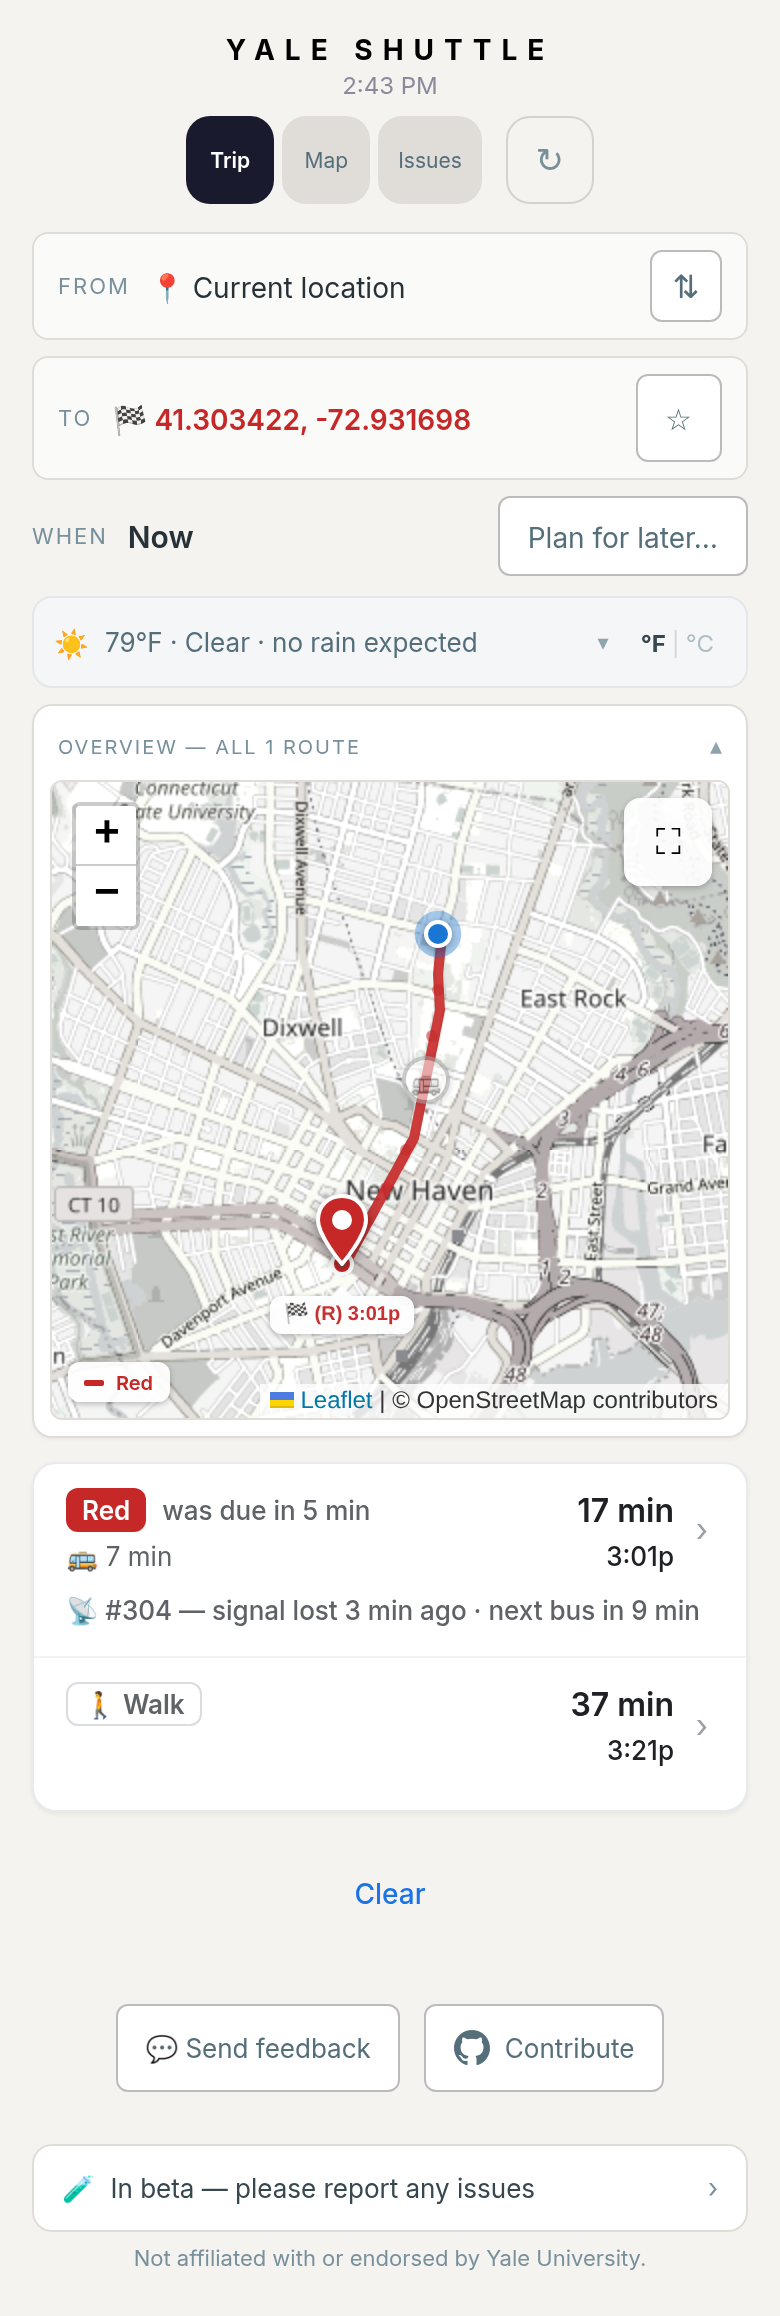
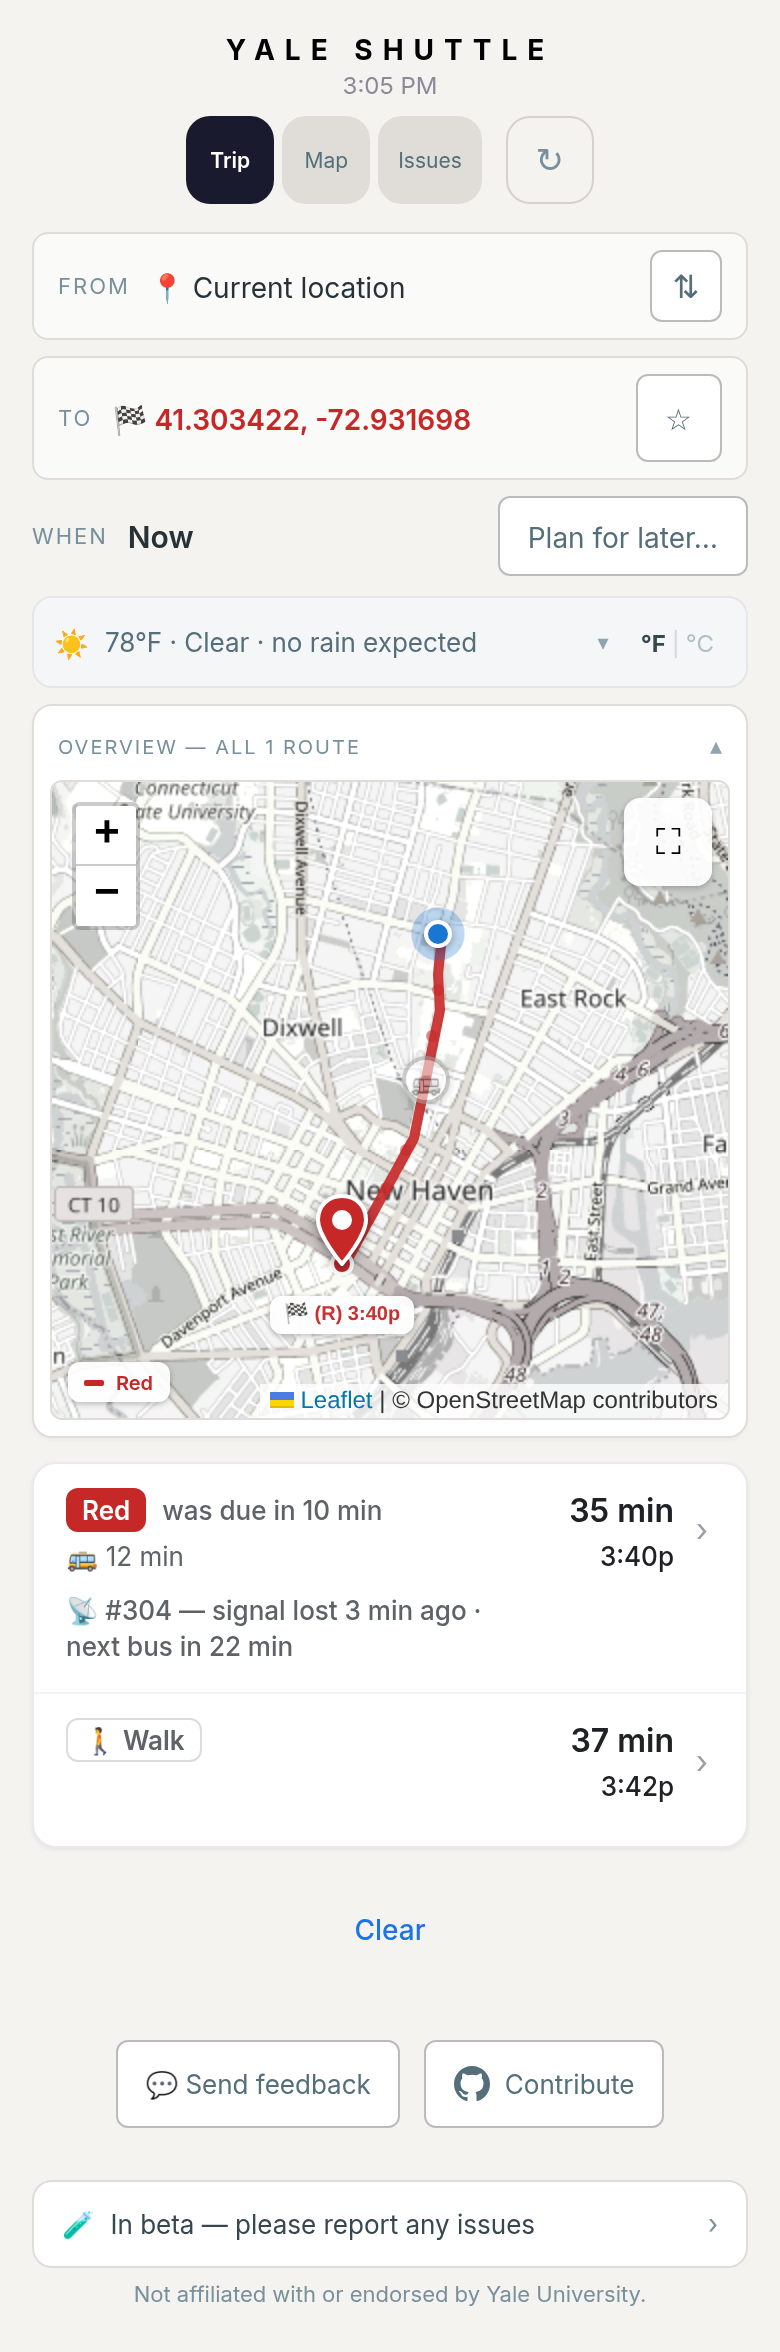
A ghost reaches the three places that expect one, and nowhere else
Auditing every consumer of `buses` after adding ghosts to the payload turned up
a defect worse than the one this branch fixes, and it is report #96 rebuilt out
of new parts.

`rideEndDecision` retires a live ride when the rider is more than 300 m from
their own bus on three consecutive checks. It was reading the bus straight out
of `buses`, which now carries ghosts — so once the rider's bus went quiet, the
distance was measured to a FROZEN coordinate. A rider still perfectly happily
aboard rides away from that point, clears 300 m three times, and the app
retires their ride under them: "I was riding a bus … and then lost my live
ride". The same list also kept `busLastSeenMs` fresh for the whole ghost
window, so `BUS_ABSENT_MS` never started counting and a ride outlived the
service that ended beneath it.

The fix is one list, not thirty guards. `TransitMap` derives `reportingBuses`
and hands the ghost-carrying list to exactly three consumers, each of which
knows what it is holding: `TripPlanner`, whose pinned row is the entire point,
and the two Leaflet maps, which grey the marker. Everything else reads
`reportingBuses` — "is this route running", the shuttle count, the schematic
markers, the route cards, the on-bus views, and the ride-end decision.

Inside `TripPlanner`, four more sites take the same guard for the same reason,
each on its own line rather than by sweeping rename:

  - the "I'm on this bus" offer, which proposes a bus to BOARD — a ghost's
[…]

diff --git a/services/shuttle-v2/web/src/TransitMap.tsx b/services/shuttle-v2/web/src/TransitMap.tsx
@@ -2269,8 +2269,12 @@ const TripPlanner: FC<{
       if (!board || haversineMeters(userLatLon, board) > 60) continue;
       const cfg = ROUTE_LISTS.find(c => c.label === o.routeLabel);
       if (!cfg) continue;
+      // `offline_since == null`: this offers the rider a bus to BOARD. A
+      // ghost's `at_stop_id` is its last fix's, and it may have pulled away
+      // minutes ago (web/src/ghost.ts).
       const busAtStop = buses.find(b =>
         cfg.busRouteIds.includes(b.route_id) && b.at_stop_id === o.boardStopId
+        && b.offline_since == null
       );
       if (!busAtStop) continue;
       const key = `${o.routeLabel}-${o.boardStopId}-${norm(busAtStop.bus_name)}`;
@@ -2291,8 +2295,12 @@ const TripPlanner: FC<{
       if (o.mode !== "shuttle") continue;
       const cfg = ROUTE_LISTS.find(c => c.label === o.routeLabel);
       if (!cfg) continue;
+      // A ghost is where a bus WAS. A rider standing near that coordinate is
+      // not evidence they are aboard anything, and pinning a live ride to a
+      // bus that stopped reporting is the worst version of this offer.
       const busNear = buses.find(b =>
         cfg.busRouteIds.includes(b.route_id) &&
+        b.offline_since == null &&
         b.lat && b.lon &&
         haversineMeters(userLatLon, { lat: b.lat, lon: b.lon }) < 100
       );
@@ -3641,8 +3649,11 @@ const TripPlanner: FC<{
               // How many buses are really on this line — the same on-route
               // test the pin uses, so a depot ghost cannot make "2 buses out"
               // of one. The last-bus warning below reads this.
+              // LIVE count, so a ghost cannot make a line look staffed: this
+              // feeds `lastBusVerdict`, i.e. "is this the last one tonight".
               const liveCount = buses.filter((b) =>
-                cfg.busRouteIds.includes(b.route_id) && isBusOnRoute(b, allStops, stopCoords),
+                cfg.busRouteIds.includes(b.route_id) && b.offline_since == null
+                && isBusOnRoute(b, allStops, stopCoords),
               ).length;
               return { busMatch, stopsAway, normBus, cfg, liveCount };
             })();
@@ -3990,7 +4001,12 @@ const TripPlanner: FC<{
                       {signalLostSec !== null && !o.departed && (
                         <div style={{ fontSize: 13, color: "#5f6368", fontWeight: 500, lineHeight: 1.4, marginBottom: 2 }}>
                           📡 #{normBus(o.busName)} — {fmtSignalLost(signalLostSec)}
-                          {nextArrLive ? ` · next bus in ${fmtMin(nextArrLive.eta)}` : ""}
+                          {/* The sentence may wrap — it is prose, not one of the
+                              right-hand clock figures — but a number must never
+                              be split from its unit across the break. */}
+                          {nextArrLive ? (
+                            <> · <span style={{ whiteSpace: "nowrap" }}>next bus in {fmtMin(nextArrLive.eta)}</span></>
+                          ) : null}
                         </div>
                       )}
                       {o.missedBus && !o.departed && (
@@ -4616,16 +4632,19 @@ const TripPlanner: FC<{
           chips are training wheels — once the rider has their own saved
           or recent destinations, those take the space instead. */}
       {!options && (() => {
-        const activeRoutes = ROUTE_LISTS.filter((c) => buses.some((b) => c.busRouteIds.includes(b.route_id)));
+        // "running now" means REPORTING now — a bus that has gone quiet is
+        // exactly the one a rider must not be told is running.
+        const running = buses.filter((b) => b.offline_since == null);
+        const activeRoutes = ROUTE_LISTS.filter((c) => running.some((b) => c.busRouteIds.includes(b.route_id)));
         const firstTimer = savedTrips.length === 0 && recentTrips.length === 0;
         return (
           <div style={{ marginTop: 14 }}>
-            <div style={{ fontSize: 13, color: buses.length > 0 ? "#2E7D32" : "#78909c", padding: "0 2px", fontWeight: 600 }}>
-              {buses.length > 0
-                ? `🚌 ${buses.length} shuttle${buses.length === 1 ? "" : "s"} running now on ${activeRoutes.length} route${activeRoutes.length === 1 ? "" : "s"}`
+            <div style={{ fontSize: 13, color: running.length > 0 ? "#2E7D32" : "#78909c", padding: "0 2px", fontWeight: 600 }}>
+              {running.length > 0
+                ? `🚌 ${running.length} shuttle${running.length === 1 ? "" : "s"} running now on ${activeRoutes.length} route${activeRoutes.length === 1 ? "" : "s"}`
                 : "😴 No shuttles running right now"}
             </div>
-            {firstTimer && buses.length > 0 && (
+            {firstTimer && running.length > 0 && (
               <div style={{ fontSize: 12, color: "#78909c", padding: "2px 2px 0" }}>
                 Pick a destination — we compare walking against every shuttle.
               </div>
@@ -6187,6 +6206,28 @@ const OnBusBanner: FC<{
 
 const TransitMap: FC = () => {
   const [buses, setBuses] = useState<BusData[]>([]);
+  /**
+   * THE BUSES THAT ARE ACTUALLY REPORTING — the default for everything below.
+   *
+   * `buses` now also carries GHOSTS: vehicles that stopped reporting, held for
+   * up to ten minutes with `offline_since` set and their last fix otherwise
+   * verbatim (web/src/ghost.ts). That is what makes one dangerous to a
+   * consumer that does not expect it — a ghost is indistinguishable from a
+   * live bus standing perfectly still at a coordinate it left minutes ago.
+   *
+   * So the ghost-carrying list goes to exactly three places, each of which
+   * knows what it is holding: `TripPlanner`, whose pinned row is the whole
+   * point, and the two Leaflet maps, which grey the marker. Everything else —
+   * "is this route running", the shuttle count, the schematic markers, the
+   * route cards, the on-bus views and `rideEndDecision` — reads this list.
+   *
+   * `rideEndDecision` is the one that would have broken loudest. It retires a
+   * ride when the rider is over 300 m from their own bus three checks running;
+   * measured against a FROZEN position, a rider still happily aboard drifts
+   * past 300 m and the ride ends under them. That is report #96's failure mode
+   * and this list is what keeps it fixed.
+   */
+  const reportingBuses = useMemo(() => buses.filter((b) => b.offline_since == null), [buses]);
   const [routeStops, setRouteStops] = useState<Record<string, number[]>>({});
   const [stopNames, setStopNames] = useState<Record<number, string>>({});
   const [segmentTimes, setSegmentTimes] = useState<Record<string, Record<string, { avg: number; sd?: number; n: number }>>>({});
@@ -6274,7 +6315,7 @@ const TransitMap: FC = () => {
   // running the filter is moot, so fall back to showing everything
   // (activeFilter) instead of an empty page.
   const [activeOnly, setActiveOnly] = useState(true);
-  const activeFilter = activeOnly && buses.length > 0;
+  const activeFilter = activeOnly && reportingBuses.length > 0;
   const [showGroupSettings, setShowGroupSettings] = useState(false);
   // Footer feedback form: collapsed by default. Posts to the same
   // /api/report endpoint as the per-route report button, tagged
@@ -6653,7 +6694,7 @@ const TransitMap: FC = () => {
     const cfg = ROUTE_LISTS.find((c) => c.label === boardedRide.routeLabel);
     const norm = (s: string) => s.replace(/^#/, "");
     const bus = cfg
-      ? buses.find((b) => norm(b.bus_name) === norm(boardedRide.busName) && cfg.busRouteIds.includes(b.route_id))
+      ? reportingBuses.find((b) => norm(b.bus_name) === norm(boardedRide.busName) && cfg.busRouteIds.includes(b.route_id))
       : undefined;
     const positioned = bus && bus.lat && bus.lon ? { lat: bus.lat, lon: bus.lon } : null;
     const decision = rideEndDecision({
@@ -6680,7 +6721,7 @@ const TransitMap: FC = () => {
       } catch { /* blocked */ }
     }
     // eslint-disable-next-line react-hooks/exhaustive-deps
-  }, [buses, userLatLon?.lat, userLatLon?.lon, boardedRide]);
+  }, [reportingBuses, userLatLon?.lat, userLatLon?.lon, boardedRide]);
   const [stopGroups, setStopGroups] = useState<StopGroup[]>(() => {
     try {
       const saved = localStorage.getItem("shuttle-stop-groups");
@@ -6793,7 +6834,7 @@ const TransitMap: FC = () => {
     }
     const next = new Set<string>();
     for (const cfg of ROUTE_LISTS) {
-      const hasBuses = buses.some((b) => cfg.busRouteIds.includes(b.route_id));
+      const hasBuses = reportingBuses.some((b) => cfg.busRouteIds.includes(b.route_id));
       const rid0 = cfg.routeIds[0];
           const isFav = rid0 !== undefined && favorites.has(rid0);
       if (hasBuses && isFav) continue; // keep visible
@@ -6801,7 +6842,7 @@ const TransitMap: FC = () => {
       if (toggle) next.add(toggle);
     }
     setHiddenRoutes(next);
-  }, [listView, buses, favorites]);
+  }, [listView, reportingBuses, favorites]);
 
   const toggleRoute = (label: string) => {
     setHiddenRoutes((prev) => {
@@ -6962,7 +7003,7 @@ const TransitMap: FC = () => {
       {boardedRide && (
         <OnBusBanner
           ride={boardedRide}
-          buses={buses}
+          buses={reportingBuses}
           stopNames={stopNames}
           stopCoords={stopCoords}
           routeStops={routeStops}
@@ -7101,7 +7142,7 @@ const TransitMap: FC = () => {
           />
           <RideStopList
             ride={boardedRide}
-            buses={buses}
+            buses={reportingBuses}
             stopNames={stopNames}
             stopCoords={stopCoords}
             routeStops={routeStops}
@@ -7208,8 +7249,8 @@ const TransitMap: FC = () => {
               {activeOnly ? "Running now" : "Every route"}
             </button>
             {ROUTE_LISTS.map((cfg) => {
-              const hasBuses = buses.some((b) => cfg.busRouteIds.includes(b.route_id));
-              if (activeOnly && buses.length > 0 && !hasBuses) return null;
+              const hasBuses = reportingBuses.some((b) => cfg.busRouteIds.includes(b.route_id));
+              if (activeOnly && reportingBuses.length > 0 && !hasBuses) return null;
               const toggle = cfg.busRouteIds.map((bid) => ROUTE_ID_TO_TOGGLE[bid]).find(Boolean);
               if (toggle && mapHidden.has(toggle)) return null;
               return (
@@ -7232,11 +7273,11 @@ const TransitMap: FC = () => {
           </div>
           <div style={{ width: "100%", padding: "0 16px", display: "flex", justifyContent: "center" }}>
             <StopList
-              buses={buses} stopNames={stopNames} stopCoords={stopCoords} routeStops={routeStops}
+              buses={reportingBuses} stopNames={stopNames} stopCoords={stopCoords} routeStops={routeStops}
               routePaths={routePaths}
               segmentTimes={segmentTimes} dwellTimes={dwellTimes} routePeaks={routePeaks}
               routeHours={routeHours} tick={tick}
-              listView="all" activeOnly={activeOnly && buses.length > 0}
+              listView="all" activeOnly={activeOnly && reportingBuses.length > 0}
               // One filter for the page: the chips above already say which
               // lines the rider cares about, and they persist between visits.
               hiddenRoutes={mapHidden}
@@ -7287,7 +7328,7 @@ const TransitMap: FC = () => {
           // TS's flow analysis gives up in a function body this large, so the
           // guard above doesn't narrow; assert what it just proved.
           const ml = matchingList as NonNullable<typeof matchingList>;
-          const hasBuses = buses.some((b) => ml.busRouteIds.includes(b.route_id));
+          const hasBuses = reportingBuses.some((b) => ml.busRouteIds.includes(b.route_id));
           const mlRid = ml.routeIds[0];
           const isFav = mlRid !== undefined && favorites.has(mlRid);
           if (listView === "all" && activeOnly && !hasBuses) continue;
@@ -7298,7 +7339,7 @@ const TransitMap: FC = () => {
         for (const cfg of ROUTE_LISTS) {
           const toggle = cfg.busRouteIds.map((bid) => ROUTE_ID_TO_TOGGLE[bid]).find(Boolean);
           if (toggle !== undefined && hiddenRoutes.has(toggle!)) continue;
-          const hasBuses = buses.some((b) => cfg.busRouteIds.includes(b.route_id));
+          const hasBuses = reportingBuses.some((b) => cfg.busRouteIds.includes(b.route_id));
           const rid0 = cfg.routeIds[0];
           const isFav = rid0 !== undefined && favorites.has(rid0);
           let show = listView === "all";
@@ -7336,7 +7377,7 @@ const TransitMap: FC = () => {
                     setHiddenRoutes((prev) => {
                       const next = new Set(prev);
                       for (const cfg of ROUTE_LISTS) {
-                        const hasBuses = buses.some((b) => cfg.busRouteIds.includes(b.route_id));
+                        const hasBuses = reportingBuses.some((b) => cfg.busRouteIds.includes(b.route_id));
                         if (!hasBuses) continue;
                         const toggle = cfg.busRouteIds.map((bid) => ROUTE_ID_TO_TOGGLE[bid]).find(Boolean);
                         if (toggle) next.delete(toggle);
@@ -7381,7 +7422,7 @@ const TransitMap: FC = () => {
                 for (const cfg of ROUTE_LISTS) {
                   const toggle = cfg.busRouteIds.map((bid) => ROUTE_ID_TO_TOGGLE[bid]).find(Boolean);
                   if (toggle && hiddenRoutes.has(toggle)) continue;
-                  const hasBus = buses.some((b) => cfg.busRouteIds.includes(b.route_id));
+                  const hasBus = reportingBuses.some((b) => cfg.busRouteIds.includes(b.route_id));
                   const rid0 = cfg.routeIds[0];
           const isFav = rid0 !== undefined && favorites.has(rid0);
                   let show = listView === "all";
@@ -7396,7 +7437,7 @@ const TransitMap: FC = () => {
                 }
                 return <StationDot key={s.id} station={s} saved={isSaved} routeColors={colors} />;
               })}
-              {buses.filter(isBusVisible).map((bus) => {
+              {reportingBuses.filter(isBusVisible).map((bus) => {
                 const stnKey = stopToStation[bus.last_stop_id];
                 const stn = stnKey ? stationMap.get(stnKey) : undefined;
                 if (!stn) return null;
@@ -7449,7 +7490,7 @@ const TransitMap: FC = () => {
           }}>
             Active
           </button>
-          {activeOnly && buses.length === 0 && (
+          {activeOnly && reportingBuses.length === 0 && (
             <span style={{ fontSize: 11, color: "#78909c", width: "100%" }}>
               No shuttles running right now — showing all routes
             </span>
@@ -7465,7 +7506,7 @@ const TransitMap: FC = () => {
           justifyContent: "center",
         }}>
           {ROUTE_LISTS.map((cfg) => {
-            const hasBuses = buses.some((b) => cfg.busRouteIds.includes(b.route_id));
+            const hasBuses = reportingBuses.some((b) => cfg.busRouteIds.includes(b.route_id));
             if (activeFilter && !hasBuses) return null;
             const toggle = cfg.busRouteIds.map((bid) => ROUTE_ID_TO_TOGGLE[bid]).find(Boolean);
             if (toggle && hiddenRoutes.has(toggle)) return null;
@@ -7495,7 +7536,7 @@ const TransitMap: FC = () => {
       {listView === "all" && (
         <div style={{ width: "100%", padding: "0 16px", display: "flex", justifyContent: "center" }}>
           <StopList
-            buses={buses} stopNames={stopNames} stopCoords={stopCoords} routeStops={routeStops}
+            buses={reportingBuses} stopNames={stopNames} stopCoords={stopCoords} routeStops={routeStops}
             routePaths={routePaths}
             segmentTimes={segmentTimes} dwellTimes={dwellTimes} routePeaks={routePeaks} routeHours={routeHours} tick={tick}
             listView={listView} activeOnly={activeFilter}

diff --git a/services/shuttle-v2/web/src/rideEnd.test.ts b/services/shuttle-v2/web/src/rideEnd.test.ts
@@ -1,3 +1,6 @@
+import { readFileSync } from "node:fs";
+import { fileURLToPath } from "node:url";
+
 import { describe, expect, it } from "vitest";
 
 import {
@@ -178,6 +181,70 @@ describe("the ride still ends when it should", () => {
 
   it("ignores a junk distance rather than reading it as far away", () => {
     const d = rideEndDecision(onBus({ distanceM: Number.NaN, streak: OFF_BUS_STRIKES - 1 }));
+    expect(d.end).toBe(false);
+    expect(d.streak).toBe(0);
+  });
+});
+
+/**
+ * A GHOST MUST NOT REACH THIS DECISION (2026-09-04).
+ *
+ * `/api/buses` now carries buses that have stopped reporting for up to ten
+ * minutes, flagged with `offline_since` and otherwise their last fix verbatim
+ * (web/src/ghost.ts). Fed to `rideEndDecision` that is not a harmless extra
+ * row — it is report #96 rebuilt from new parts:
+ *
+ *  - the frozen coordinate keeps `busLastSeenMs` fresh, so `BUS_ABSENT_MS`
+ *    never starts counting and a ride outlives the service that ended under
+ *    it; and, much worse,
+ *  - `distanceM` is measured from the rider to where the bus WAS. A rider
+ *    still perfectly happily aboard rides away from that point, clears
+ *    `OFF_BUS_M` on three consecutive checks, and the app retires their live
+ *    ride — the exact complaint #96 filed ("I was riding a bus … and then lost
+ *    my live ride").
+ *
+ * The decision itself is pure and cannot see the flag, so the guard is at the
+ * call site: `TransitMap` derives `reportingBuses` and the ride effect reads
+ * that. This asserts the wiring, because no unit test of this module can.
+ */
+describe("the ride effect never sees a bus that stopped reporting", () => {
+  const src = readFileSync(
+    fileURLToPath(new URL("./TransitMap.tsx", import.meta.url)), "utf8",
+  );
+
+  it("derives reportingBuses by dropping the ghosts", () => {
+    expect(src).toContain(
+      "const reportingBuses = useMemo(() => buses.filter((b) => b.offline_since == null), [buses]);",
+    );
+  });
+
+  it("looks the ride's bus up in reportingBuses, not in buses", () => {
+    // The line that feeds `rideEndDecision({ bus, busLastSeenMs })`.
+    expect(src).toContain(
+      "? reportingBuses.find((b) => norm(b.bus_name) === norm(boardedRide.busName)",
+    );
+  });
+
+  // The same reasoning, one layer out: a rider ABOARD is exactly the case
+  // where a frozen coordinate is most convincing and most wrong.
+  it("does not offer a ride on a bus that stopped reporting", () => {
+    expect(src).toContain("b.offline_since == null\n      );");
+  });
+
+  // Sanity on the pure function itself: with the bus absent (which is what the
+  // guard produces for a ghost) a rider's own movement earns no strike.
+  it("charges no strike on a poll its bus is missing from", () => {
+    const d = rideEndDecision({
+      now: 1_000_000,
+      startedAt: 1_000_000 - 60_000,
+      bus: null,
+      busLastSeenMs: 1_000_000 - 60_000,
+      user: { lat: 41.31, lon: -72.93 },
+      fixAgeMs: 1_000,
+      hidden: false,
+      streak: OFF_BUS_STRIKES - 1,
+      distanceM: null,
+    });
     expect(d.end).toBe(false);
     expect(d.streak).toBe(0);
   });
